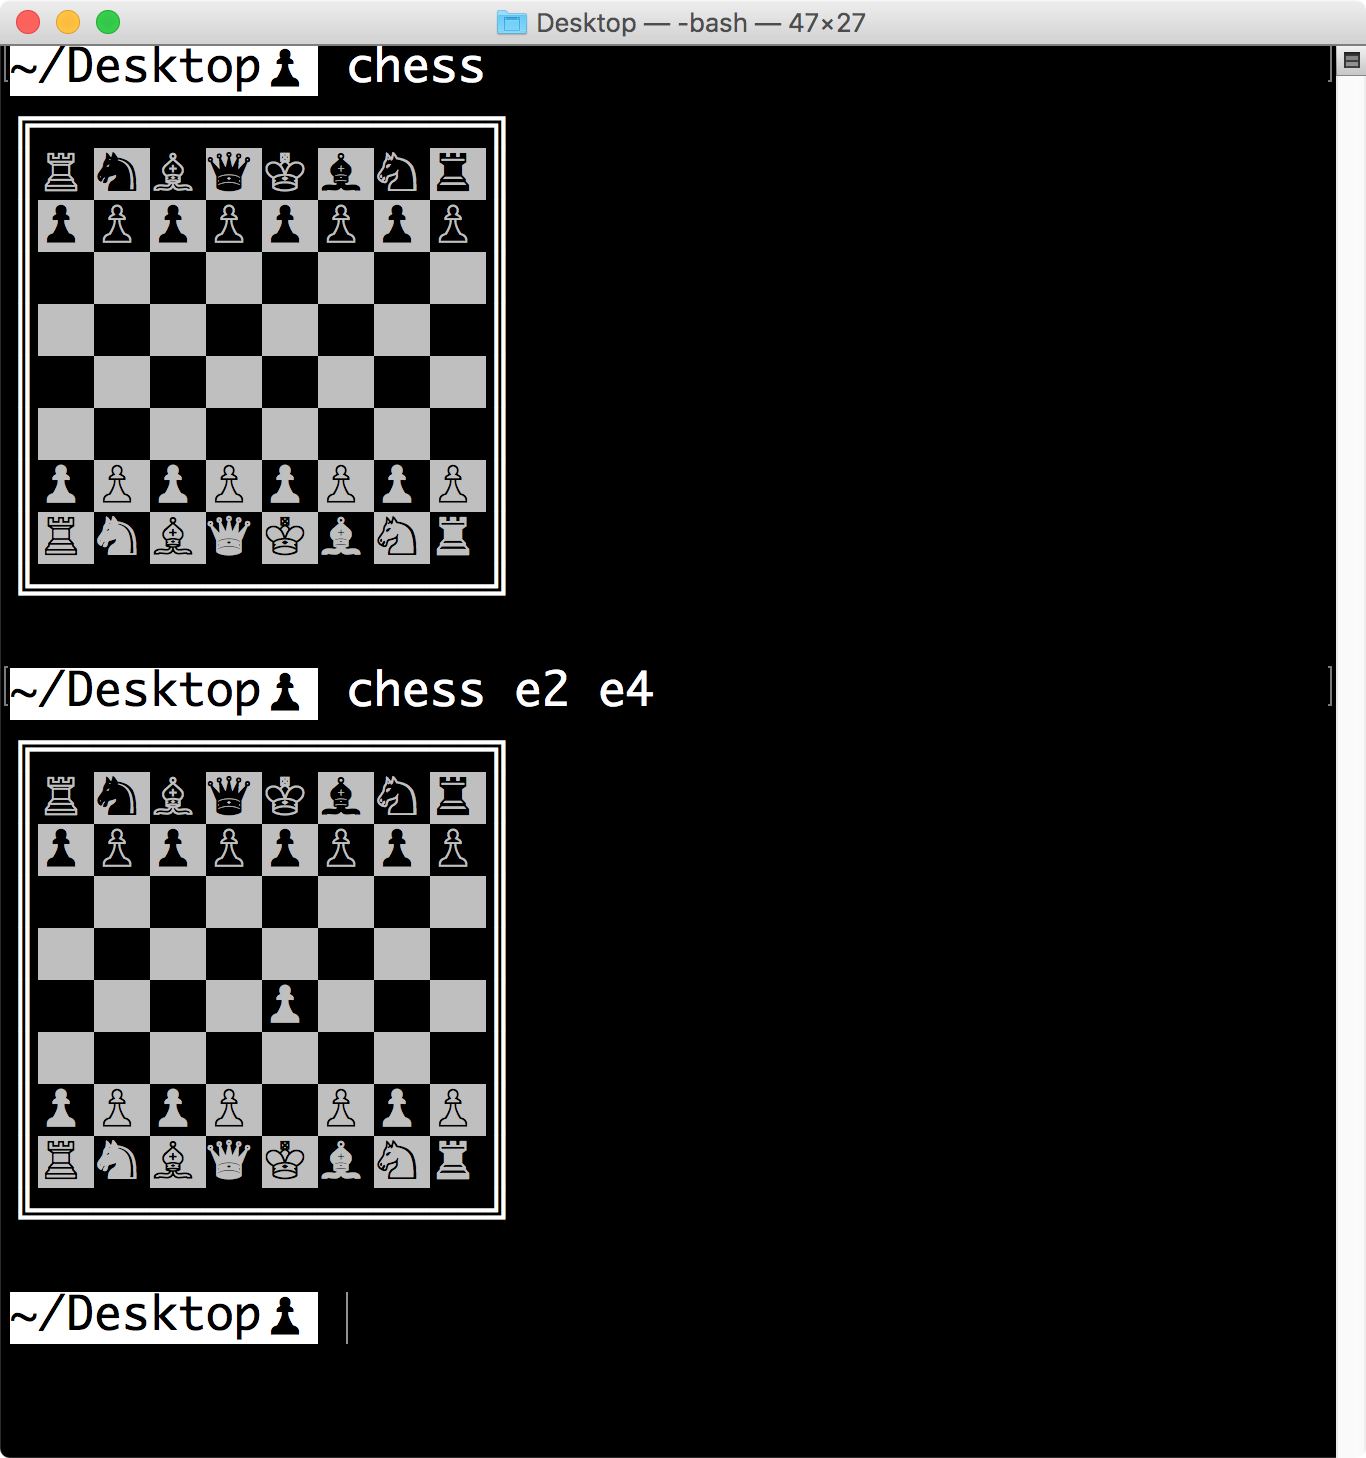
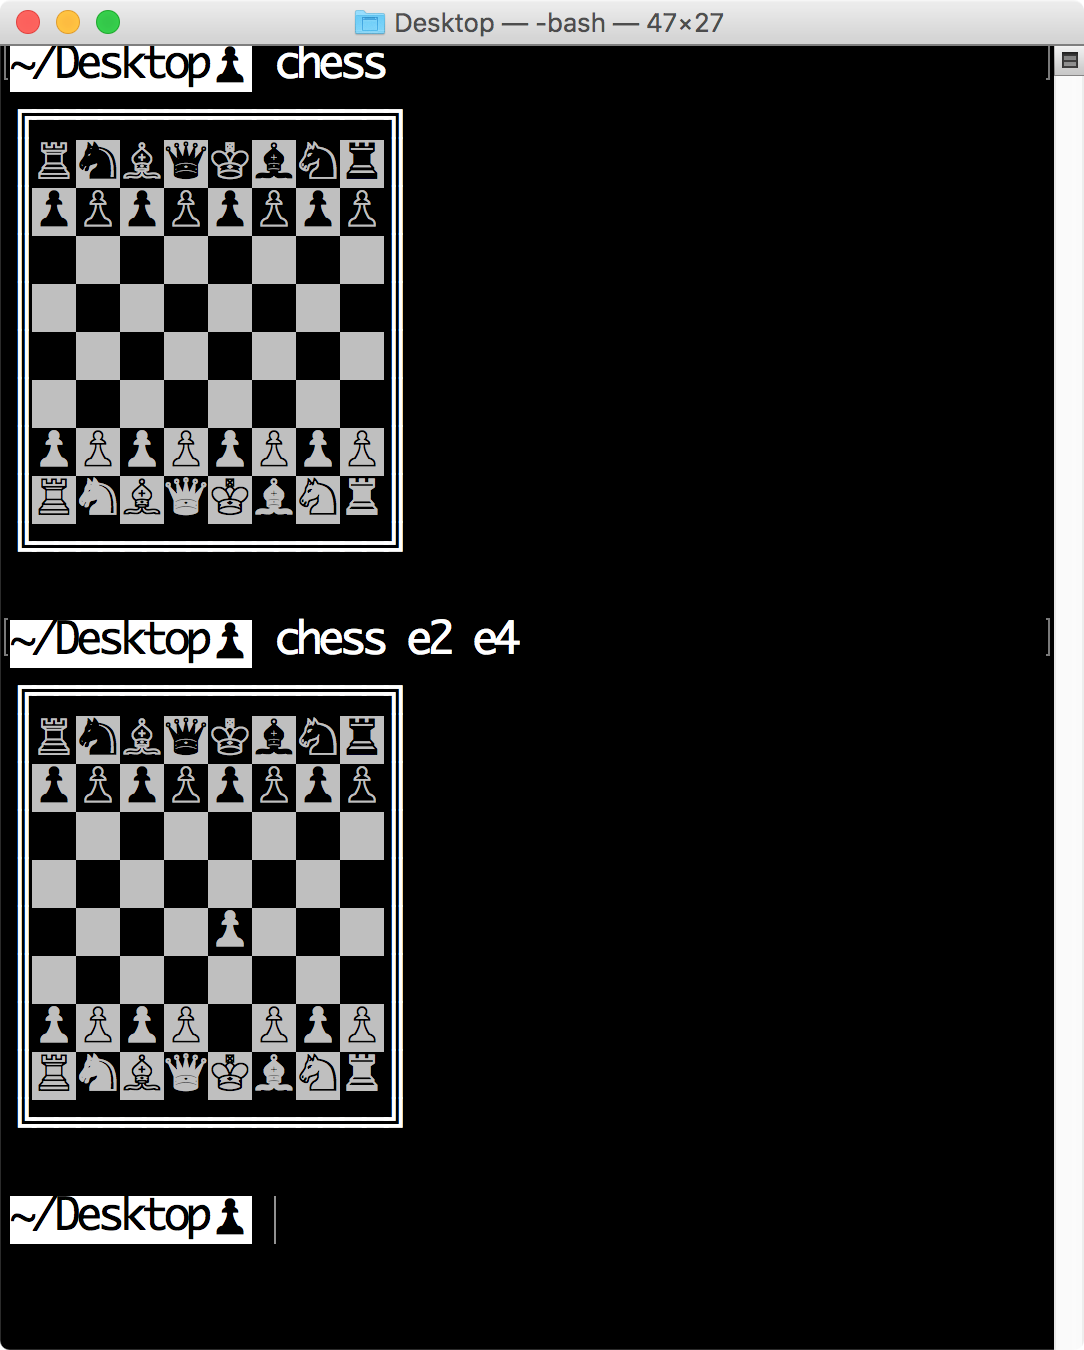
Better display settings

diff --git a/README.md b/README.md
@@ -3,6 +3,6 @@
 # Instructions
 Copy the chess.py file somewhere on your PATH, rename the file to `chess`, and run `chmod +x chess`
 
-Display looks best with character spacing = 1.034, line spacing = 0.819, size 18 Monaco font.
+Display looks best with character spacing = 0.8, line spacing = 0.8, size 18 Monaco font, and then `command +`'d 4 times.
 
 ![font settings](font-settings.png)
